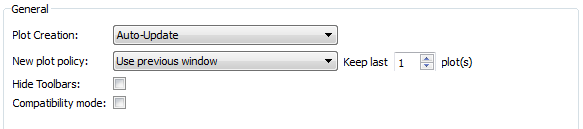
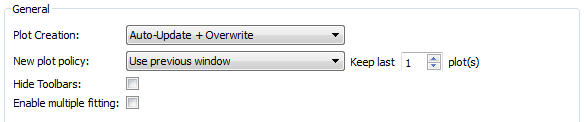
Update user documentation for MuonAnalysis
The option "Compatibility mode" has been renamed and the default has been
changed.

re #17972

diff --git a/docs/source/interfaces/Muon_Analysis.rst b/docs/source/interfaces/Muon_Analysis.rst
@@ -266,12 +266,33 @@ Data Analysis
 This tab is designed for the user to make a fit against the data just plotted.
 Since Mantid 3.8, this tab has been enhanced to include fits of multiple datasets at once.
 
+Default: multiple fitting disabled
+^^^^^^^^^^^^^^^^^^^^^^^^^^^^^^^^^^
+
+.. image::  ../images/MuonAnalysisDataAnalysis.png
+   :align: right
+
+By default, multiple dataset fitting is not enabled and the interface will look just as it did pre-Mantid 3.8.
+
+In this case, the only thing that this tab will contain is a specialised version of the
+`Fit Property Browser <http://www.mantidproject.org/MantidPlot:_Data_Analysis_and_Curve_Fitting>`_.
+When the tab is open, this fit property browser is used by default within MantidPlot.
+
+Note that, in this mode, simultaneous fits are not possible.
+The intention is that this mode could be useful for users who are accustomed to the existing UI, or if a bug is found in the new UI.
+
+Multiple fitting enabled
+^^^^^^^^^^^^^^^^^^^^^^^^
+
+The new multiple fitting functionality can be enabled by checking the "Enable multiple fitting" checkbox on the Settings_ tab.
+When this is activated, the tab is divided into three sections vertically.
+
 .. image::  ../images/MuonAnalysisDataAnalysis3.8.png
    :align: right
 
 Fit Function
 ^^^^^^^^^^^^
-The tab is divided into three sections vertically. The uppermost of these is the *Fit Function* section, which is a
+The uppermost of the three vertical sections is the *Fit Function* section, which is a
 FunctionBrowser just like in the *General/Multi dataset fitting* interface (and numerous other places in Mantid).
 Functions can be added by right-clicking. If more space is needed, this section can be expanded by dragging its lower edge downwards.
 
@@ -356,21 +377,6 @@ Options
 The bottom of the tab contains selected fit options that can be adjusted, just as elsewhere in Mantid.
 The only option specific to the Muon Analysis interface is *Fit To Raw Data*.
 When this option is set to *True*, the fitting process is done using the raw (unbinned) data, even if the DataBinning_ is set.
-
-Compatibility mode
-^^^^^^^^^^^^^^^^^^
-
-.. image::  ../images/MuonAnalysisDataAnalysis.png
-   :align: right
-
-To revert to the interface as it was pre-Mantid 3.8, use the checkbox for "Compatibility mode" on the Settings_ tab.
-
-In this case, the only thing that this tab will contain is a specialised version of the
-`Fit Property Browser <http://www.mantidproject.org/MantidPlot:_Data_Analysis_and_Curve_Fitting>`_.
-When the tab is open, this fit property browser is used by default within MantidPlot.
-
-Note that, in "Compatibility mode", simultaneous fits are not possible.
-The intention is that this mode could be useful for users who are accustomed to the existing UI, or if a bug is found in the new UI.
 
 Sequential fitting
 ^^^^^^^^^^^^^^^^^^
@@ -576,37 +582,41 @@ General
 .. image:: ../images/MuonAnalysisSettingsGeneral.png
   :align: center
 
-+-------+------------------------+---------------------------------------------------------------------+
-| **1** | **Plot Creation**      | - **Auto-Update**. When settings are changed on the interface,      |
-|       |                        |   the new plot is created automatically.                            |
-|       |                        |                                                                     |
-|       |                        | - **Overwrite**. When plotting, if the plot of the same type        |
-|       |                        |   exists already, it is overwritten instead of creating a new       |
-|       |                        |   one.                                                              |
-|       |                        |                                                                     |
-|       |                        | - **Auto-Update + Overwrite**. Both above settings at the same time |
-|       |                        |                                                                     |
-|       |                        | - **None**. None of the settings                                    |
-|       |                        |                                                                     |
-+-------+------------------------+---------------------------------------------------------------------+
-| **2** | **New plot policy**    | - **Use previous window**. Each new plot will be drawn in the       |
-|       |                        |   same window. By default, the previous fit curve will remain       |
-|       |                        |   on the graph when the run is changed - the number of curves       |
-|       |                        |   to keep can be adjusted here (set to 0 to always clear            |
-|       |                        |   previous fits). The "clear fit curves" option on the Data         |
-|       |                        |   Analysis tab will clear any fit curves present.                   |
-|       |                        |                                                                     |
-|       |                        | - **Create new window**. When plotting a new run, it is             |
-|       |                        |   plotted in a new window each time.                                |
-|       |                        |                                                                     |
-+-------+------------------------+---------------------------------------------------------------------+
-| **3** | **Hide Toolbars**      | If enabled, opening the interface up hides the MantidPlot           |
-|       |                        | toolbars. This is useful on smaller screens.                        |
-+-------+------------------------+---------------------------------------------------------------------+
-| **4** | **Compatibility mode** | If enabled, the DataAnalysis_ tab will be reverted to the UI it had |
-|       |                        | in previous versions of Mantid (pre-3.8). Note that simultaneous    |
-|       |                        | fits are not possible in this mode.                                 |
-+-------+------------------------+---------------------------------------------------------------------+
++-------+-----------------------------+---------------------------------------------------------------------+
+| **1** | **Plot Creation**           | - **Auto-Update**. When settings are changed on the interface,      |
+|       |                             |   the new plot is created automatically.                            |
+|       |                             |                                                                     |
+|       |                             | - **Overwrite**. When plotting, if the plot of the same type        |
+|       |                             |   exists already, it is overwritten instead of creating a new       |
+|       |                             |   one.                                                              |
+|       |                             |                                                                     |
+|       |                             | - **Auto-Update + Overwrite**. Both above settings at the same time |
+|       |                             |                                                                     |
+|       |                             | - **None**. None of the settings                                    |
+|       |                             |                                                                     |
++-------+-----------------------------+---------------------------------------------------------------------+
+| **2** | **New plot policy**         | - **Use previous window**. Each new plot will be drawn in the       |
+|       |                             |   same window. By default, the previous fit curve will remain       |
+|       |                             |   on the graph when the run is changed - the number of curves       |
+|       |                             |   to keep can be adjusted here (set to 0 to always clear            |
+|       |                             |   previous fits). The "clear fit curves" option on the Data         |
+|       |                             |   Analysis tab will clear any fit curves present.                   |
+|       |                             |                                                                     |
+|       |                             | - **Create new window**. When plotting a new run, it is             |
+|       |                             |   plotted in a new window each time.                                |
+|       |                             |                                                                     |
++-------+-----------------------------+---------------------------------------------------------------------+
+| **3** | **Hide Toolbars**           | If enabled, opening the interface up hides the MantidPlot           |
+|       |                             | toolbars. This is useful on smaller screens.                        |
++-------+-----------------------------+---------------------------------------------------------------------+
+| **4** | **Enable multiple fitting** | By default, this option is disabled and the DataAnalysis_ tab will  |
+|       |                             | look the same as it did in previous versions of Mantid (pre-3.8).   |
+|       |                             | Note that simultaneous fits are not possible in this case.          |
+|       |                             |                                                                     |
+|       |                             | Enabling the option will change the UI of the DataAnalysis_ tab to  |
+|       |                             | the new one described above, enabling fits of multiple datasets to  |
+|       |                             | be made.
++-------+-----------------------------+---------------------------------------------------------------------+
 
 Feedback & Comments
 -------------------
